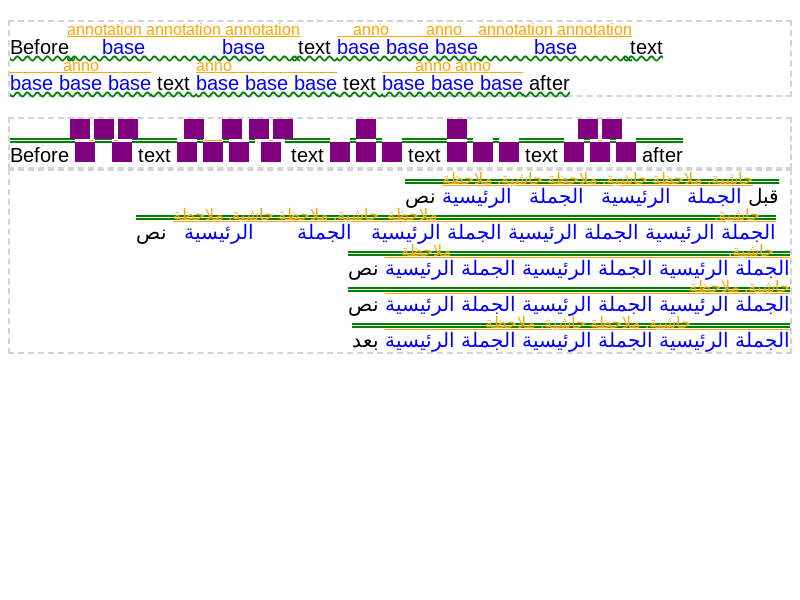
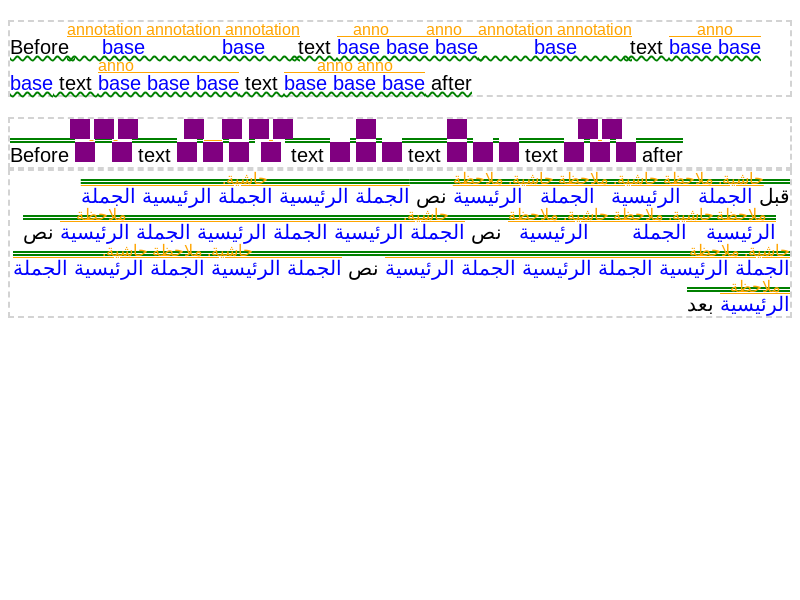
RubyLB: Make ruby columns breakable
If a ruby columns is not monolithic and its intrinsic inline size is
larger than line's available size, we try to break inside the ruby
column.  We provide RubyBreakTokenData if it succeeds.

Bug: 324111880
Auto-Submit: Kent Tamura <tkent@chromium.org>
Commit-Queue: Koji Ishii <kojii@chromium.org>
Cr-Commit-Position: refs/heads/main@{#1302421}

diff --git a/web_tests/external/wpt/css/css-ruby/break-within-bases/basic.html b/web_tests/external/wpt/css/css-ruby/break-within-bases/basic.html
@@ -1,0 +1,18 @@
+<!DOCTYPE html>
+<link rel="help" href="https://drafts.csswg.org/css-ruby/#break-within">
+<link rel="match" href="basic-ref.html">
+<link rel="stylesheet" href="/fonts/ahem.css">
+<style>
+body {
+  font: 50px/1 Ahem;
+}
+span {
+  text-wrap: nowrap;
+}
+p {
+  word-break: break-all;
+  inline-size: 305px;
+}
+</style>
+<p>zzz<ruby><span>mmm</span><span>mm</span><rt><span>mmmmmm</span><span>mmmm</span></ruby>zzz
+</p>

diff --git a/web_tests/external/wpt/css/css-ruby/break-within-bases/basic-ref.html b/web_tests/external/wpt/css/css-ruby/break-within-bases/basic-ref.html
@@ -1,0 +1,16 @@
+<!DOCTYPE html>
+<link rel="stylesheet" href="/fonts/ahem.css">
+<style>
+body {
+  font: 50px/1 Ahem;
+}
+span {
+  text-wrap: nowrap;
+}
+p {
+  word-break: break-all;
+  inline-size: 305px;
+}
+</style>
+<p>zzz<ruby><span>mmm</span><rt><span>mmmmmm</span></ruby> <ruby><span>mm</span><rt><span>mmmm</span></ruby>zzz
+</p>

diff --git a/renderer/core/layout/inline/line_breaker.cc b/renderer/core/layout/inline/line_breaker.cc
@@ -531,7 +531,7 @@ void LineBreaker::SetLineOpportunity(
 }
 
 void LineBreaker::OverrideAvailableWidth(LayoutUnit available_width) {
-  DCHECK(available_width);
+  DCHECK_GE(available_width, LayoutUnit());
   override_available_width_ = available_width;
   UpdateAvailableWidth();
 }
@@ -544,10 +544,12 @@ void LineBreaker::SetBreakAt(const LineBreakPoint& offset) {
 inline InlineItemResult* LineBreaker::AddItem(const InlineItem& item,
                                               unsigned end_offset,
                                               LineInfo* line_info) {
-  DCHECK_EQ(&item, &items_data_->items[current_.item_index]);
-  DCHECK_GE(current_.text_offset, item.StartOffset());
-  DCHECK_GE(end_offset, current_.text_offset);
-  DCHECK_LE(end_offset, item.EndOffset());
+  if (item.Type() != InlineItem::kOpenRubyColumn) {
+    DCHECK_EQ(&item, &items_data_->items[current_.item_index]);
+    DCHECK_GE(current_.text_offset, item.StartOffset());
+    DCHECK_GE(end_offset, current_.text_offset);
+    DCHECK_LE(end_offset, item.EndOffset());
+  }
   if (UNLIKELY(item.IsTextCombine()))
     line_info->SetHaveTextCombineOrRubyItem();
   InlineItemResults* item_results = line_info->MutableResults();
@@ -1026,6 +1028,7 @@ void LineBreaker::BreakLine(LineInfo* line_info) {
         AddItem(item, line_info);
         MoveToNextOf(item);
       }
+      HandleOverflowIfNeeded(line_info);
       continue;
     }
     if (item.Type() == InlineItem::kOutOfFlowPositioned) {
@@ -3241,7 +3244,9 @@ bool LineBreaker::HandleRuby(const RubyBreakTokenData* ruby_token,
       base_start, base_end_index, LineBreakerMode::kMaxContent, kIndefiniteSize,
       trailing_whitespace_);
 
+  const wtf_size_t number_of_annotations = annotation_data.size();
   HeapVector<LineInfo, 1> annotation_line_list;
+  annotation_line_list.reserve(number_of_annotations);
   for (const auto& data : annotation_data) {
     annotation_line_list.push_back(CreateSubLineInfo(
         data.start, data.end_item_index, LineBreakerMode::kMaxContent,
@@ -3249,8 +3254,9 @@ bool LineBreaker::HandleRuby(const RubyBreakTokenData* ruby_token,
   }
 
   LayoutUnit ruby_size = MaxLineWidth(base_line_info, annotation_line_list);
-
-  {
+  LayoutUnit available = RemainingAvailableWidth().ClampNegativeToZero();
+  if (ruby_size <= available ||
+      IsMonolithicRuby(base_line_info, annotation_line_list)) {
     // Recreate lines because lines created with LineBreakerMode::kMaxContent
     // are not usable in InlineLayoutAlgorithm.
     base_line_info =
@@ -3270,8 +3276,92 @@ bool LineBreaker::HandleRuby(const RubyBreakTokenData* ruby_token,
     current_ = annotation_line_list[0].End();
     return true;
   }
-  // TODO(crbug.com/324111880): Break the ruby if ruby_size is longer than
-  // RemainingAvailableWidth().
+
+  // Try to break the ruby column.
+
+  base_line_info = CreateSubLineInfo(
+      base_start, base_end_index, LineBreakerMode::kContent,
+      available * base_line_info.Width() / ruby_size, trailing_whitespace_);
+
+  bool annotation_is_broken = false;
+  for (wtf_size_t i = 0; i < number_of_annotations; ++i) {
+    LineInfo& line = annotation_line_list[i];
+    // If all items in the base line is consumed, we should consume all items
+    // in annotation lines too.  The point just after the base line might be
+    // non-breakable and we need to continue handling the following InlineItems
+    // in such case. However it's very difficult if annotation items remain.
+    LayoutUnit limit = base_line_info.GetBreakToken()
+                           ? (available * line.Width() / ruby_size)
+                           : kIndefiniteSize;
+    line = CreateSubLineInfo(
+        annotation_data[i].start, annotation_data[i].end_item_index,
+        LineBreakerMode::kContent, limit, WhitespaceState::kLeading);
+    annotation_is_broken = annotation_is_broken || line.GetBreakToken();
+  }
+
+  ruby_size = MaxLineWidth(base_line_info, annotation_line_list);
+  InlineItemResult* result =
+      AddRubyColumnResult(item, base_line_info, annotation_line_list,
+                          annotation_data, ruby_size, ruby_token, *line_info);
+  position_ += ruby_size;
+
+  // If the base line and annotation lines have no BreakToken, we should add
+  // them even though they are wider than the available width.  The
+  // InlineItemResult for the ruby column may be rewound.
+  if (!base_line_info.GetBreakToken() && !annotation_is_broken) {
+    current_ = annotation_line_list[0].End();
+    return true;
+  }
+  DCHECK(base_line_info.GetBreakToken());
+  current_ = base_line_info.End();
+
+  // We have a broken line, and need to provide a RubyBreakTokenData.
+  Vector<AnnotationBreakTokenData, 1> breaks;
+  breaks.reserve(number_of_annotations);
+  for (wtf_size_t i = 0; i < number_of_annotations; ++i) {
+    breaks.push_back(AnnotationBreakTokenData{
+        annotation_line_list[i].End(), annotation_data[i].start_item_index,
+        annotation_data[i].end_item_index});
+  }
+  result->ruby_column->ruby_break_token =
+      MakeGarbageCollected<RubyBreakTokenData>(open_column_item_index,
+                                               base_end_index, breaks);
+
+  // We can't handle following InlineItems if we break inside a ruby column.
+  if (ruby_size <= available) {
+    state_ = LineBreakState::kDone;
+  }
+  return true;
+}
+
+bool LineBreaker::IsMonolithicRuby(
+    const LineInfo& base_line,
+    const HeapVector<LineInfo, 1>& annotation_line_list) const {
+  // Not breakable if it's an inner ruby column of nested rubies.
+  if (end_item_index_ != Items().size()) {
+    return true;
+  }
+
+  // Not breakable if the number of the base letters is <= 4 and the number of
+  // the annotation letters is <= 8.
+  //
+  // TODO(layout-dev): Should we count glyphs?  Should we take into account of
+  // East Asian Width?
+  constexpr wtf_size_t kBaseLetterLimit = 4;
+  constexpr wtf_size_t kAnnotationLetterLimit = 8;
+  if (base_line.EndTextOffset() - base_line.StartOffset() <= kBaseLetterLimit) {
+    auto iter =
+        std::find_if(annotation_line_list.begin(), annotation_line_list.end(),
+                     [](const LineInfo& line) {
+                       return line.EndTextOffset() - line.StartOffset() >
+                              kAnnotationLetterLimit;
+                     });
+    if (iter == annotation_line_list.end()) {
+      return true;
+    }
+  }
+
+  return false;
 }
 
 LineInfo LineBreaker::CreateSubLineInfo(

diff --git a/renderer/core/layout/inline/line_breaker_test.cc b/renderer/core/layout/inline/line_breaker_test.cc
@@ -1104,7 +1104,7 @@ TEST_F(LineBreakerTest, BreakAtTrailingSpacesAfterAtomicInline) {
 // crbug.com/338437458
 TEST_F(LineBreakerTest, WideContentInRuby) {
   InlineNode node = CreateInlineNode(R"HTML(
-      <div id=container>
+      <div id=container style="text-wrap:nowrap">
       <ruby><div style="width:109162843px; margin-right:1000px"></div><div>
       a</div><rt>a</ruby>
       </div>)HTML");
@@ -1156,8 +1156,8 @@ TEST_F(LineBreakerTest, SetInputRange) {
 TEST_F(LineBreakerTest, CreateSubLineInfoAvailableWidth) {
   LoadAhem();
   InlineNode node = CreateInlineNode(R"HTML(
-      <div id=container style="font: 40px Ahem"><ruby><b>
-      foo bar foo bar foo bar foo bar foo bar
+      <div id=container style="font: 40px Ahem"><ruby style="text-wrap:nowrap">
+      <b>foo bar foo bar foo bar foo bar foo bar
       foo bar foo bar foo bar foo bar foo bar
       <button style="float:left;">f</button></b>
       <rt>annotation</ruby></div>)HTML");

diff --git a/renderer/core/layout/inline/inline_break_token.h b/renderer/core/layout/inline/inline_break_token.h
@@ -33,6 +33,12 @@ struct RubyBreakTokenData : GarbageCollected<RubyBreakTokenData> {
   const wtf_size_t ruby_base_end_item_index;
   const Vector<AnnotationBreakTokenData, 1> annotation_data;
 
+  RubyBreakTokenData(wtf_size_t open_column_index,
+                     wtf_size_t base_end_index,
+                     const Vector<AnnotationBreakTokenData, 1>& annotations)
+      : open_column_item_index(open_column_index),
+        ruby_base_end_item_index(base_end_index),
+        annotation_data(annotations) {}
   void Trace(Visitor*) const {}
 };
 

diff --git a/renderer/core/layout/inline/line_breaker.h b/renderer/core/layout/inline/line_breaker.h
@@ -227,6 +227,9 @@ class CORE_EXPORT LineBreaker {
   // HandleRuby() twice.
   NOINLINE bool HandleRuby(const RubyBreakTokenData* ruby_token,
                            LineInfo* line_info);
+  bool IsMonolithicRuby(
+      const LineInfo& base_line,
+      const HeapVector<LineInfo, 1>& annotation_line_list) const;
   // `mode`: Must be kMaxContent or kContent.
   // `limit`: Must be non-negative or kIndefiniteSize, which means no auto-wrap.
   LineInfo CreateSubLineInfo(InlineItemTextIndex start,
